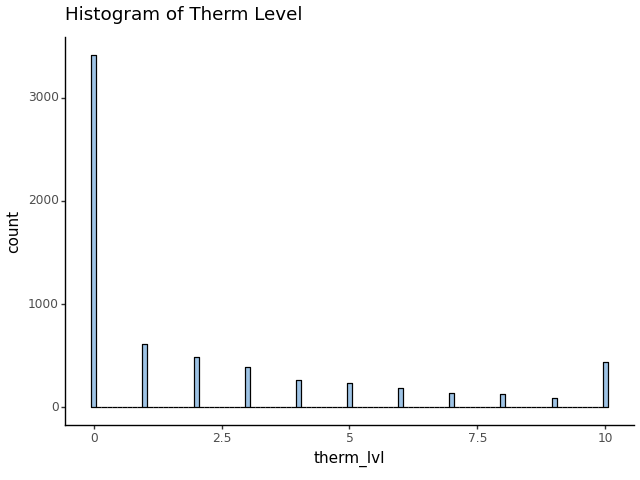
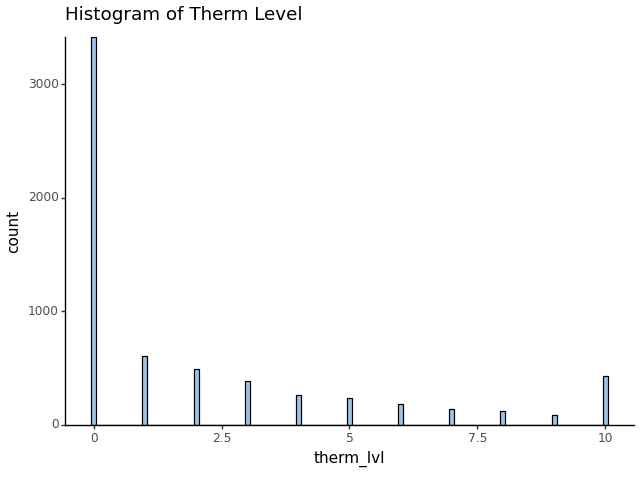
updatez init

diff --git a/mri_processor.py b/mri_processor.py
@@ -608,7 +608,7 @@ answer4 = input("Would you like to execute thermometer analysis? (y/n)\n")
 if answer4 == 'y':
     
     # Step 1: Access Run 2 and 3 tbv_script thermometer files and extract relevant data into dataframe.
-    participants = ['P004', 'P006', 'P020', 'P030', 'P059', 'P078', 'P093', 'P094', 'P100', 'P107', 'P122', 'P125', 'P127', 'P128', 'P136', 'P145', 'P155', 'P199', 'P215']
+    participants = ['P004', 'P006', 'P020', 'P030', 'P059', 'P078', 'P093', 'P094', 'P100', 'P107', 'P122', 'P125', 'P127', 'P128', 'P136', 'P145', 'P155', 'P199', 'P215', 'P216']
     def find_second_and_third_largest(files):
         sorted_files = sorted(files, key=lambda x: int(x.split('_')[-1].split('.')[0]), reverse=True)
         second_largest_path = os.path.join(folder_path, sorted_files[-2])
@@ -747,7 +747,11 @@ if answer4 == 'y':
 
         'P215_vis_1_locations': {'dob': (77, 26), 'gender': (81, 26),  'handedness': (82, 26), 'exercise': (83, 26), 'education': (84, 26), 'work_status': (85, 26), 'panic': (132, 26), 'agoraphobia': (134, 26), 'social_anx': (135, 26), 'ocd': (137, 26), 'ptsd': (140, 26), 'gad': (141, 26), 'comorbid_anx': (142, 26), 'msm': (120, 26), 'psi_sociotropy': (151, 26), 'psi_autonomy': (152, 26), 'raads': (155, 26), 'panas_pos_vis_1': (161, 26), 'panas_neg_vis_1': (162, 26), 'qids_vis_1': (172, 26), 'gad_vis_1': (173, 26), 'rosenberg_vis_1': (174, 26), 'madrs_vis_1': (185, 26)},
         'P215_vis_2_locations': {'pre_memory_intensity_guilt_1': (38, 21), 'pre_memory_intensity_guilt_2': (43, 21), 'pre_memory_intensity_indignation_1': (49, 21), 'pre_memory_intensity_indignation_2': (54, 21), 'intervention': (78, 21), 'techniques_guilt': (84, 21), 'techniques_indignation': (85, 21), 'perceived_success_guilt': (86, 21), 'perceived_success_indignation': (87, 21), 'post_memory_intensity_guilt_1': (88, 21), 'post_memory_intensity_guilt 2': (92, 21), 'post_memory_intensity_indignation_1': (97, 21), 'post_memory_indignation_2': (101, 21), 'rosenberg_vis_2': (104, 21)},
-        'P215_vis_3_locations': {'panas_pos_vis_3': (36, 20), 'panas_neg_vis_3': (37, 20), 'qids_vis_3': (47, 20), 'gad_vis_3': (48, 20), 'rosenberg_vis_3': (49, 20), 'madrs_vis_3': (60, 20)}
+        'P215_vis_3_locations': {'panas_pos_vis_3': (36, 20), 'panas_neg_vis_3': (37, 20), 'qids_vis_3': (47, 20), 'gad_vis_3': (48, 20), 'rosenberg_vis_3': (49, 20), 'madrs_vis_3': (60, 20)},
+
+        'P216_vis_1_locations': {'dob': (77, 27), 'gender': (81, 27),  'handedness': (82, 27), 'exercise': (83, 27), 'education': (84, 27), 'work_status': (85, 27), 'panic': (132, 27), 'agoraphobia': (134, 27), 'social_anx': (135, 27), 'ocd': (137, 27), 'ptsd': (140, 27), 'gad': (141, 27), 'comorbid_anx': (142, 27), 'msm': (120, 27), 'psi_sociotropy': (151, 27), 'psi_autonomy': (152, 27), 'raads': (155, 27), 'panas_pos_vis_1': (161, 27), 'panas_neg_vis_1': (162, 27), 'qids_vis_1': (172, 27), 'gad_vis_1': (173, 27), 'rosenberg_vis_1': (174, 27), 'madrs_vis_1': (185, 27)},
+        'P216_vis_2_locations': {'pre_memory_intensity_guilt_1': (38, 22), 'pre_memory_intensity_guilt_2': (43, 22), 'pre_memory_intensity_indignation_1': (49, 22), 'pre_memory_intensity_indignation_2': (54, 22), 'intervention': (78, 22), 'techniques_guilt': (84, 22), 'techniques_indignation': (85, 22), 'perceived_success_guilt': (86, 22), 'perceived_success_indignation': (87, 22), 'post_memory_intensity_guilt_1': (88, 22), 'post_memory_intensity_guilt 2': (92, 22), 'post_memory_intensity_indignation_1': (97, 22), 'post_memory_indignation_2': (101, 22), 'rosenberg_vis_2': (104, 22)},
+        'P216_vis_3_locations': {'panas_pos_vis_3': (36, 21), 'panas_neg_vis_3': (37, 21), 'qids_vis_3': (47, 21), 'gad_vis_3': (48, 21), 'rosenberg_vis_3': (49, 21), 'madrs_vis_3': (60, 21)}
     }
     for x in participants:
         print(f'Extracting {x} data from eCRF.xlsx.')

diff --git a/therm_analysis/therm_analysis.py b/therm_analysis/therm_analysis.py
@@ -489,6 +489,7 @@ epsilon_value = sphericity_test.loc[sphericity_test['Source'] == 'condition', 'e
 hist = ggplot(anova_df, aes(x='therm_lvl')) + \
     geom_histogram(binwidth=0.1, fill='#75AADB', color='black', alpha=0.7) + \
     theme_classic() + \
+    scale_y_continuous(expand=(0, 0)) + \
     ggtitle('Histogram of Therm Level')
 print(hist)
 hist.save('hist.png')
